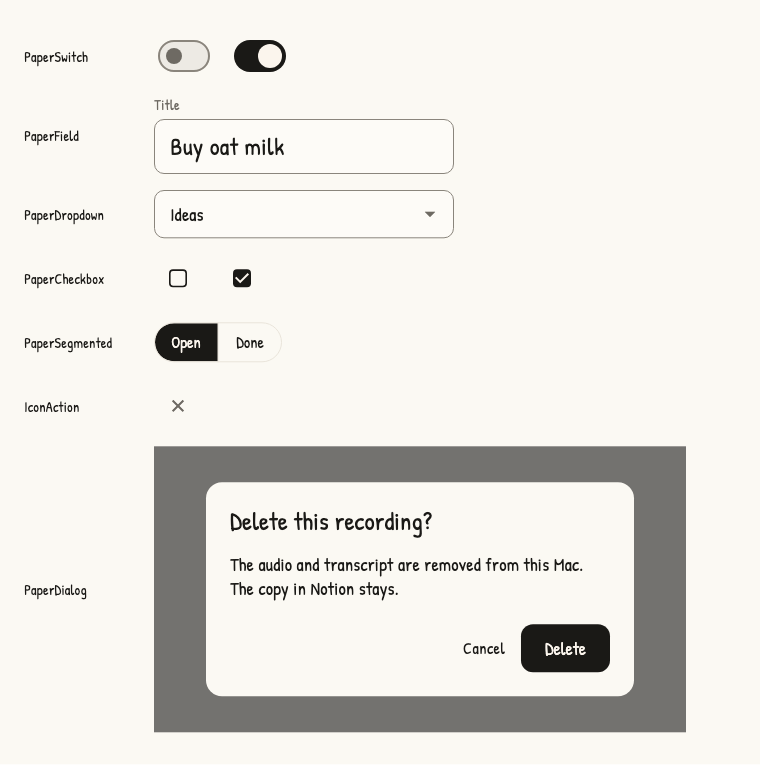
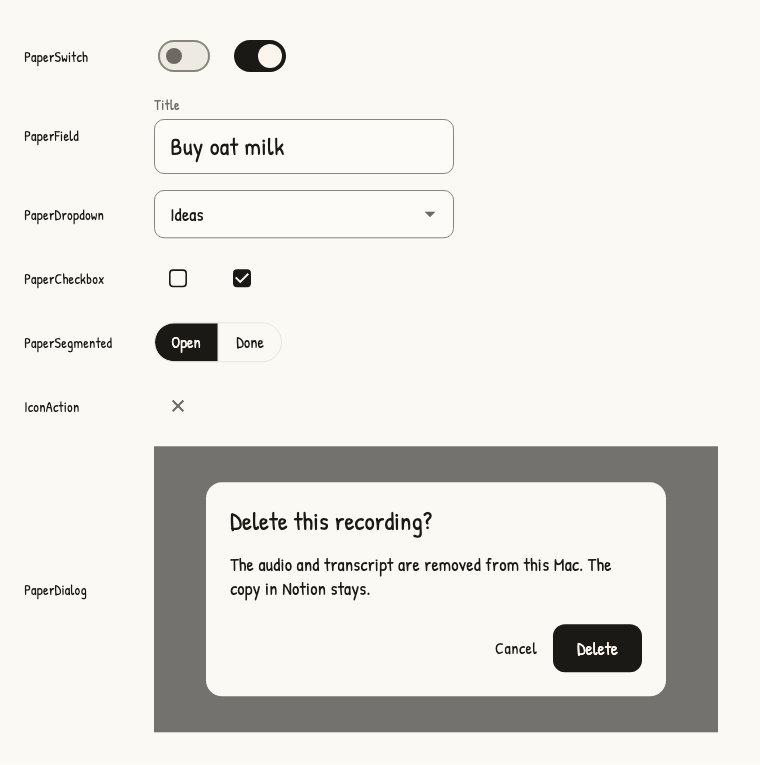
Re-render the controls mockup at the dialog token and record the gap and green fixes

Changed region(s): [[0.6053, 0.5712, 0.9684, 0.9621], [0.3026, 0.7516, 0.5145, 0.7817]]

diff --git a/features/ui-single-source/PLAN.md b/features/ui-single-source/PLAN.md
@@ -44,7 +44,7 @@ Authority: Standing rule — merge each task PR once its checks pass (user, 2026
 - [x] T11 Draw the shortcut modifier symbols through an explicit symbol font fallback (`Fonts.symbolFamily`, mirrored in `DESIGN.md`) → `test/features/settings/presentation/widgets/shortcut_keys_test.dart::the shortcut keys fall back to a font that holds the modifier symbols`.
 - [x] T12 The key field turns Replace off until a key is typed, the linked Notion page field says `Current page`, the auto-save explanation is 20 words, the whole dialog panel is capped at `Sizes.dialogWidth` (`PaperDialog.width`), the dialog backdrop is the `Palette.scrim` token, and the expand arrow sits beside the recording details with status and time on one line → `test/features/settings/presentation/screens/typesafe_step_screen_test.dart`, `test/features/settings/presentation/screens/hints_fit_test.dart`, `test/features/settings/presentation/widgets/autosave_text_test.dart`, `test/core/widgets/paper_dialog_test.dart::the dialog panel is no wider than the dialog token` and `test/features/capture/presentation/widgets/capture_card_test.dart`.
 - [x] T13 The delete dialog names the recording by its age and length and is only as tall as its content; each field and its button stay within `Sizes.fieldsWidth` (560, mirrored in `DESIGN.md`); the dropdown chevron uses `Palette.muted`; field borders use the `Palette.fieldEdge` token at 3 to 1 contrast; the page hint fits on a phone inside the real page and card padding → `test/features/capture/presentation/widgets/delete_capture_dialog_test.dart`, `test/features/settings/presentation/screens/typesafe_step_screen_test.dart::the key field and its button stay close together on a wide screen`, `test/core/widgets/paper_dropdown_test.dart`, `test/core/widgets/paper_field_test.dart::the field border has at least 3 to 1 contrast against the field fill` and `test/features/settings/presentation/screens/hints_fit_test.dart`.
-- [x] T14 Recording actions wrap and hints wrap to two lines at large text sizes, the ready speech model line fits one line on a phone, page actions sit beside the page title, the off switch outline has 3 to 1 contrast, the delete dialog names the capture by status, age and length, and the TypeSafe line no longer repeats the Privacy text → `test/features/capture/presentation/widgets/capture_card_test.dart`, `test/features/settings/presentation/screens/hints_fit_test.dart`, `test/features/settings/presentation/widgets/step_header_test.dart`, `test/core/widgets/page_frame_test.dart`, `test/core/widgets/paper_switch_test.dart` and `test/features/capture/presentation/extensions/capture_labels_test.dart`.
+- [x] T14 Recording actions wrap and hints wrap to two lines at large text sizes, the ready speech model line fits one line on a phone, page actions sit beside the page title, the off switch outline has 3 to 1 contrast, the delete dialog names the capture by status, age and length, the TypeSafe line no longer repeats the Privacy text, a recording's status line keeps a 12 point gap above its actions, and the ready green (`Palette.ok`) has 3 to 1 contrast on the card → `test/features/capture/presentation/widgets/capture_card_test.dart`, `test/features/settings/presentation/screens/hints_fit_test.dart`, `test/features/settings/presentation/widgets/step_header_test.dart`, `test/core/widgets/page_frame_test.dart`, `test/core/widgets/paper_switch_test.dart`, `test/core/theme/palette_test.dart` and `test/features/capture/presentation/extensions/capture_labels_test.dart`.
 
 ## Baseline + execution
 
@@ -90,7 +90,7 @@ Rules:
 ## Verification
 
 Result: Passed
-Evidence: 2026-11-23. `dart analyze --fatal-infos .` (`flutter_skill_lints: ^0.16.0`) → 0 issues; `dart format --output=none --set-exit-if-changed .` → 0 changes; `b5` `ui_whole.ui_findings_whole` with Hard Eng develop (`["lib/core/widgets/**"]`) → `B5_UI_HITS: 0`; `flutter test --no-pub` → 309/309 passed. The two `check` runs, `look` and `challenge` results are in the PR body.
+Evidence: 2026-11-23. `dart analyze --fatal-infos .` (`flutter_skill_lints: ^0.16.0`) → 0 issues; `dart format --output=none --set-exit-if-changed .` → 0 changes; `b5` `ui_whole.ui_findings_whole` with Hard Eng develop (`["lib/core/widgets/**"]`) → `B5_UI_HITS: 0`; `flutter test --no-pub` → 311/311 passed. The two `check` runs, `look` and `challenge` results are in the PR body.
 E2E: Passed — full Flutter widget journeys (`test/app/capture_app_test.dart`, `test/app/settings_flow_test.dart`, `test/app/responsive_layout_test.dart`) and the guideline tests pass.
 Real service: N/A — pure UI single-source refactor; no Notion, Jev, or external API code changed.
 Retro: The new guideline tests caught a 31 pt field and a 37 pt sidebar chip, and a full `flutter test` run caught that merged semantics on the reminder switch row failed `test/app/responsive_layout_test.dart`; the switch now carries its own label and the duplicate text is hidden from screen readers. Running `challenge` caught missing `Complete` plan fields, an untested Clear search `IconAction` state, `Review declined:` single-line syntax, and `Controls:` wording; next time check plan validation via `--quick` before the first commit, keep `DESIGN.md` strictly factual, and format every declined finding as `Review declined: finding :: reason`.
